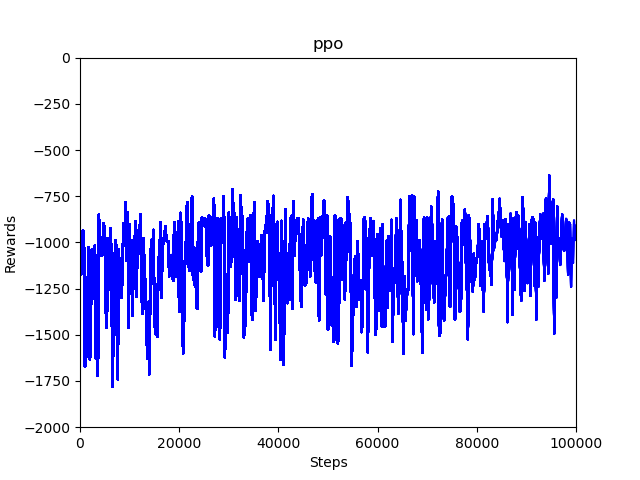
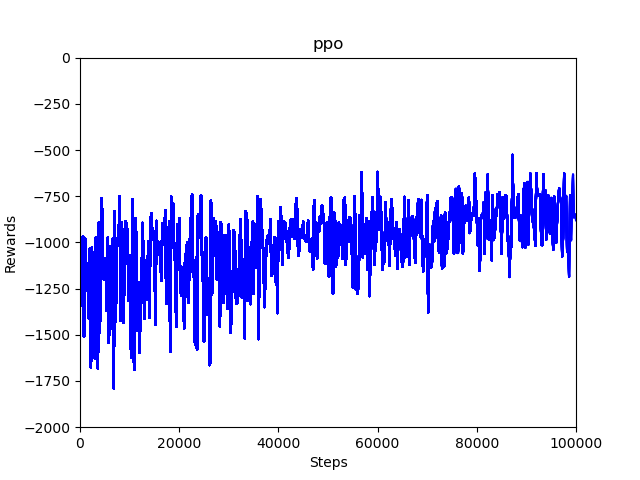
Decouple num of PPO value updates from policy updates

Changed region(s): [[0.125, 0.3125, 0.9062, 0.8125]]

diff --git a/ppo.py b/ppo.py
@@ -32,7 +32,7 @@ for step in pbar:
     if len(D) >= BATCH_SIZE:
       # Compute rewards-to-go R and advantage estimates based on the current value function V
       with torch.no_grad():
-        reward_to_go, advantage, next_value = torch.tensor([0.]), torch.tensor([0.]), torch.tensor([0.])
+        reward_to_go, advantage, next_value = torch.tensor([0.]), torch.tensor([0.]), torch.tensor([0.])  # No bootstrapping needed for next value here as only updated at end of an episode
         for transition in reversed(D):
           reward_to_go = transition['reward'] + (1 - transition['done']) * (DISCOUNT * reward_to_go)
           transition['reward_to_go'] = reward_to_go
@@ -59,8 +59,8 @@ for step in pbar:
         policy_loss.backward()
         actor_optimiser.step()
 
-        # Fit value function by regression on mean-squared error
-        value_loss = (trajectories['value'] - trajectories['reward_to_go']).pow(2).mean()
-        critic_optimiser.zero_grad()
-        value_loss.backward()
-        critic_optimiser.step()
+      # Fit value function by regression on mean-squared error
+      value_loss = (trajectories['value'] - trajectories['reward_to_go']).pow(2).mean()
+      critic_optimiser.zero_grad()
+      value_loss.backward()
+      critic_optimiser.step()

diff --git a/trpo.py b/trpo.py
@@ -56,7 +56,7 @@ for step in pbar:
     if len(D) >= BATCH_SIZE:
       # Compute rewards-to-go R and advantage estimates based on the current value function V
       with torch.no_grad():
-        reward_to_go, advantage, next_value = torch.tensor([0.]), torch.tensor([0.]), torch.tensor([0.])
+        reward_to_go, advantage, next_value = torch.tensor([0.]), torch.tensor([0.]), torch.tensor([0.])  # No bootstrapping needed for next value here as only updated at end of an episode
         for transition in reversed(D):
           reward_to_go = transition['reward'] + (1 - transition['done']) * (DISCOUNT * reward_to_go)
           transition['reward_to_go'] = reward_to_go

diff --git a/vpg.py b/vpg.py
@@ -32,7 +32,7 @@ for step in pbar:
     if len(D) >= BATCH_SIZE:
       # Compute rewards-to-go R and advantage estimates based on the current value function V
       with torch.no_grad():
-        reward_to_go, advantage, next_value = torch.tensor([0.]), torch.tensor([0.]), torch.tensor([0.])
+        reward_to_go, advantage, next_value = torch.tensor([0.]), torch.tensor([0.]), torch.tensor([0.])  # No bootstrapping needed for next value here as only updated at end of an episode
         for transition in reversed(D):
           reward_to_go = transition['reward'] + (1 - transition['done']) * (DISCOUNT * reward_to_go)
           transition['reward_to_go'] = reward_to_go
